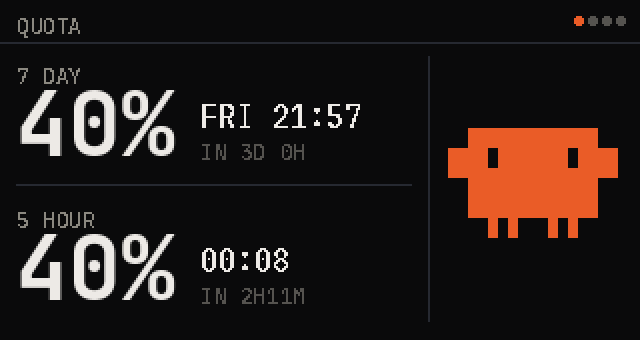
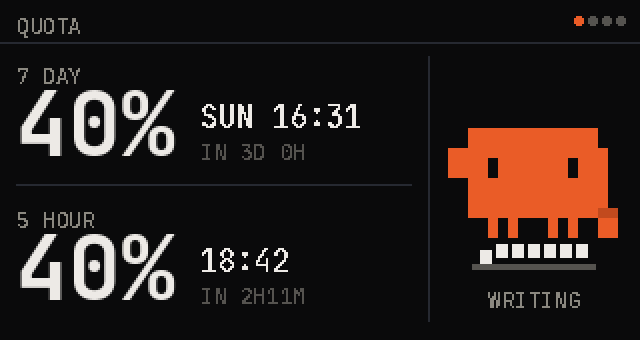
Show the crab moving, rather than describing it
The crab section led with a still of a thing whose whole point is that it
moves, and the screenshots were 320x170 -- the panel's real size, but small
and soft once GitHub scales them. Everything is redrawn at 2x nearest
neighbour, which is how pixel art wants to be enlarged, and the crab section
now opens with the animation going through all eight activities. The still
moves down to illustrate the props and the label.

The frames come off a fake clock rather than wall time, so the animation is
reproducible, and the numbers in every shot are the fixture data, not a real
account's usage.

Claude-Session: https://claude.ai/code/session_01P73kq2j8SdKNSgokhWnrD3

diff --git a/README.zh-TW.md b/README.zh-TW.md
@@ -103,13 +103,15 @@ Environment=QUOTA_DASH_PORT=/dev/serial/by-id/usb-Espressif_USB_JTAG_serial_debu
 
 ## 螃蟹
 
-![開了螃蟹的額度頁](docs/images/page1-quota-crab.png)
+![螃蟹跟著 Claude Code 在做的事動](docs/images/crab-activity.gif)
 
 `quota crab on` 會把數字旁邊那根長條換成一隻螃蟹,牠的姿態跟著 7 天額度走:
 還有餘裕時舉著螯站直,一週燒下去就慢慢垮,快用完時整隻趴在沙上。牠會呼吸、眨眼、東張西望。
 這個設定會留著,重開機也還在(就是 `~/.config/quota-dash/crab` 這個檔)。
 
 ### 牠在幹嘛
+
+![寫東西:鍵盤道具,文字標籤也開著](docs/images/page1-quota-crab.png)
 
 姿態上面還疊了第二層:Claude Code 現在在做什麼。用 `quota pose write` 設定,
 `quota poses` 會列出八個名字(`idle`、`run`、`write`、`look`、`wave`、`cheer`、

diff --git a/README.md b/README.md
@@ -116,7 +116,7 @@ three label-over-value stacks become single rows. It needs Noto Sans CJK
 
 ## The crab
 
-![The quota page with the crab](docs/images/page1-quota-crab.png)
+![The crab moving through what Claude Code is doing](docs/images/crab-activity.gif)
 
 `quota crab on` replaces the column beside the numbers with a crab whose
 posture follows the seven-day quota: claws up while there is room, sagging as
@@ -125,6 +125,8 @@ looks around. The setting sticks across restarts (it is a file at
 `~/.config/quota-dash/crab`).
 
 ### What it is doing
+
+![Writing: the keyboard prop, and the label turned on](docs/images/page1-quota-crab.png)
 
 A second layer rides over that posture: whatever Claude Code is up to right now.
 `quota pose write` sets it, and `quota poses` lists the eight names (`idle`,
